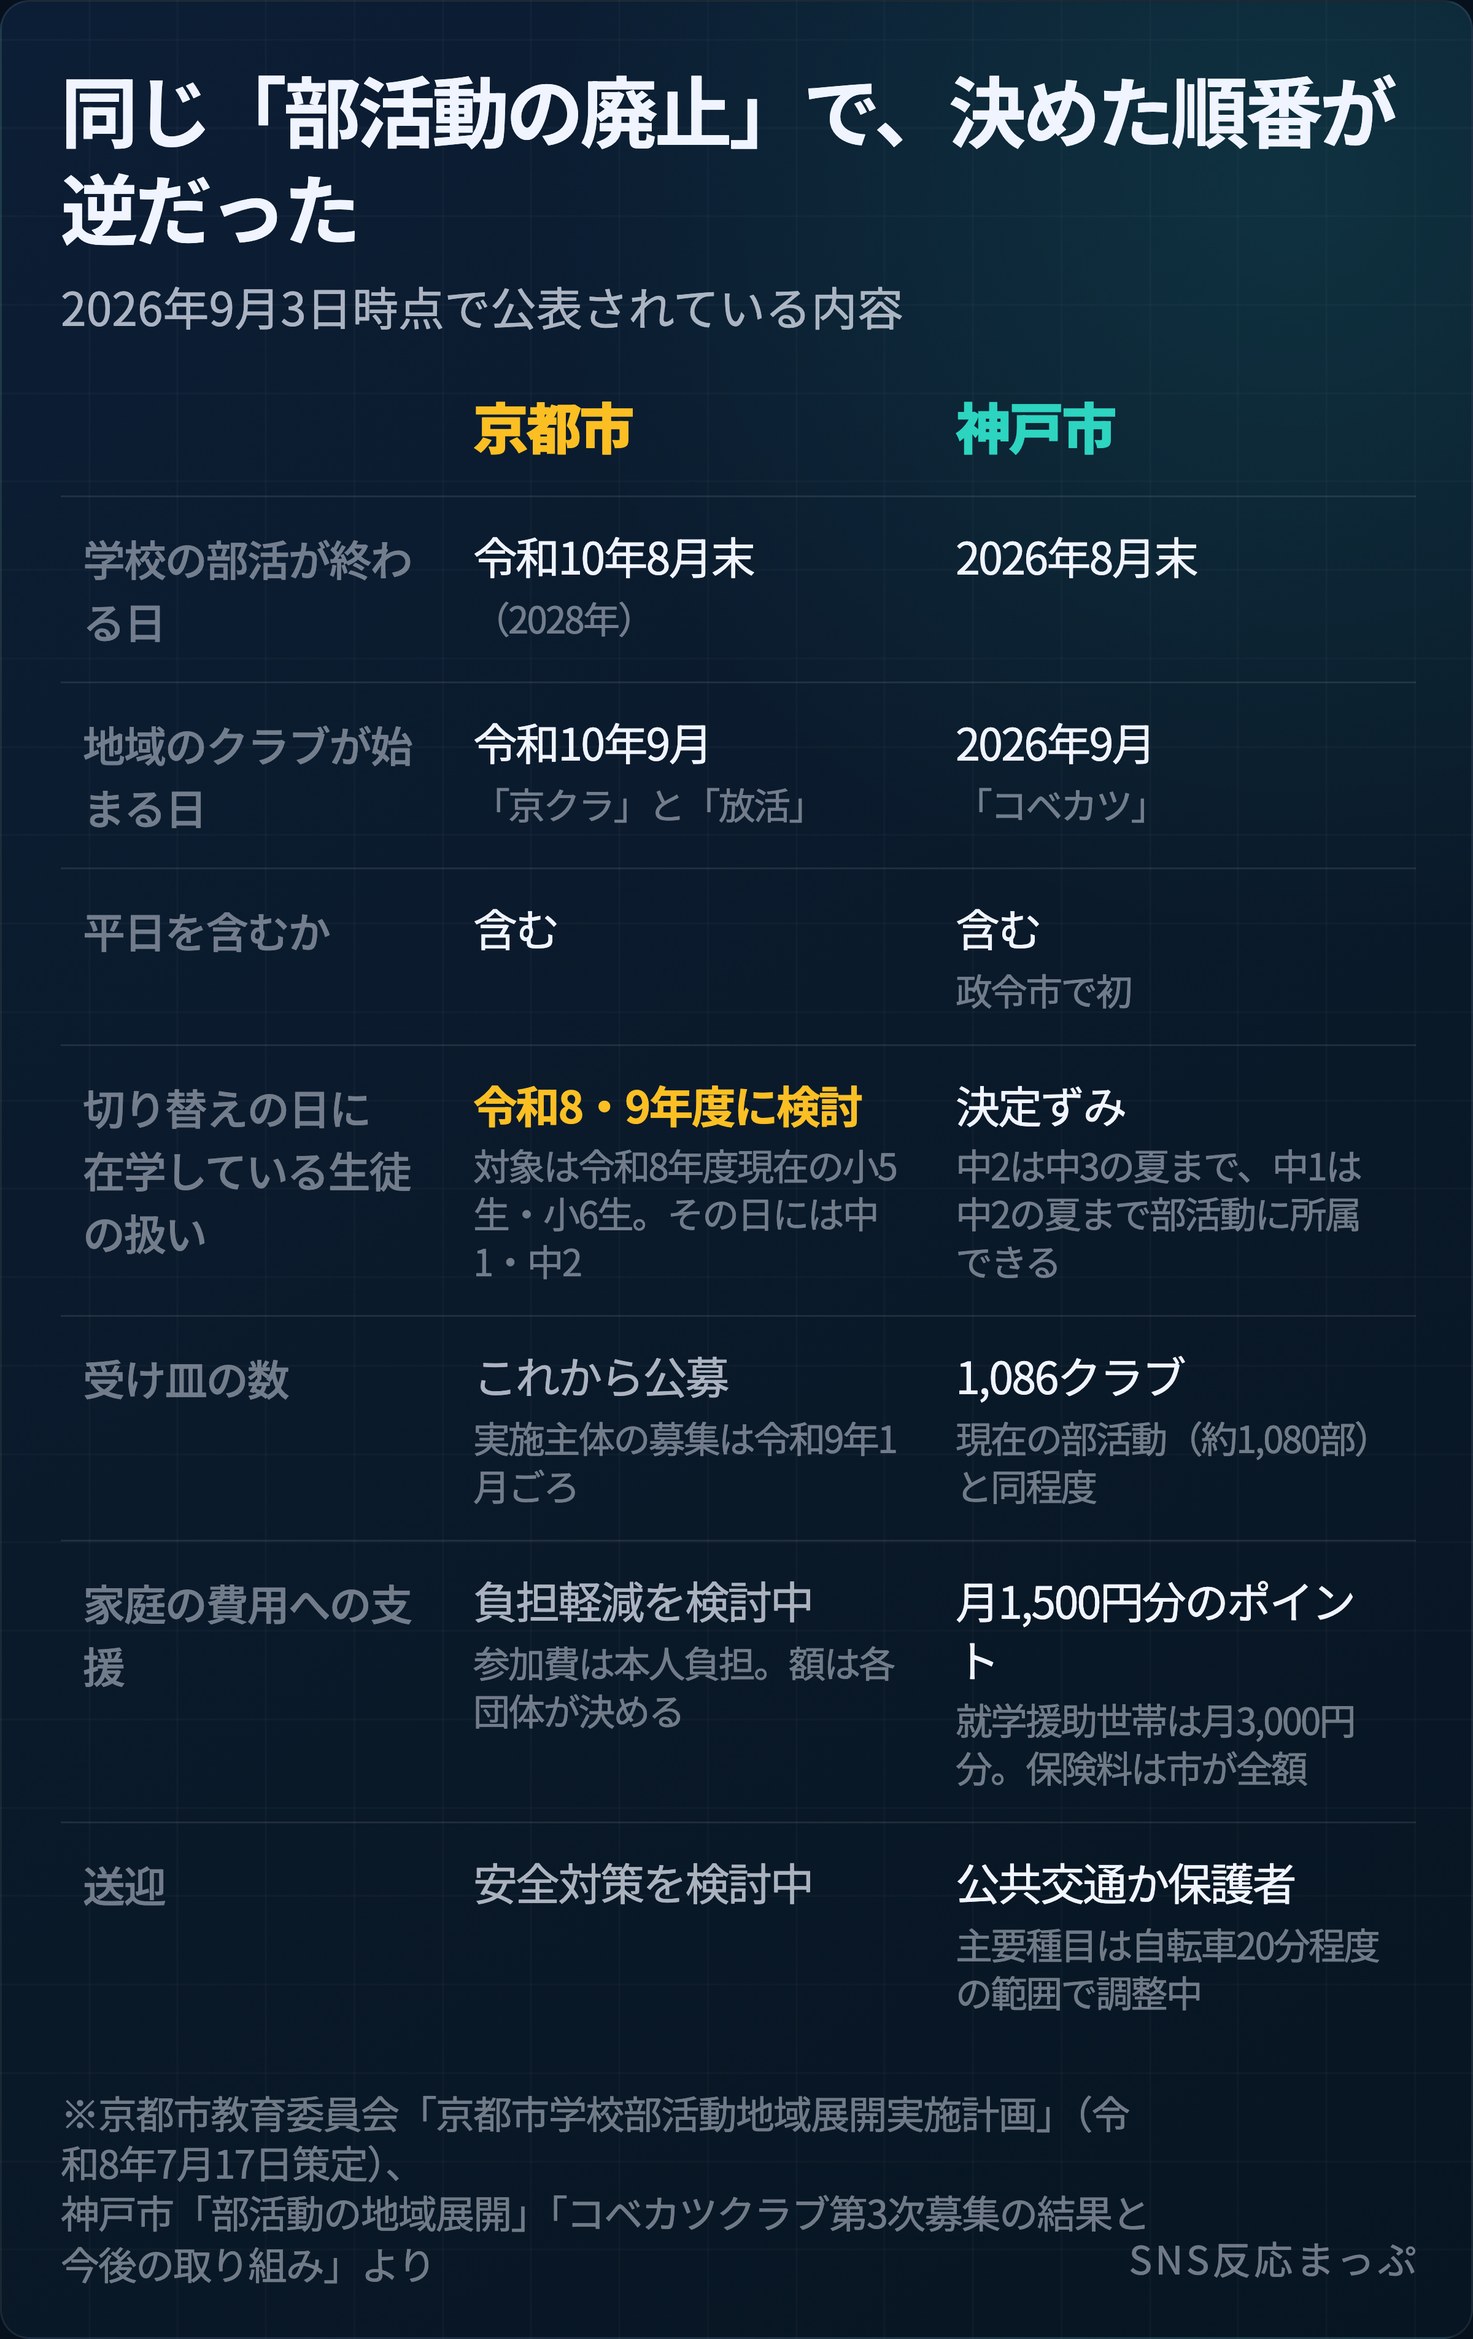
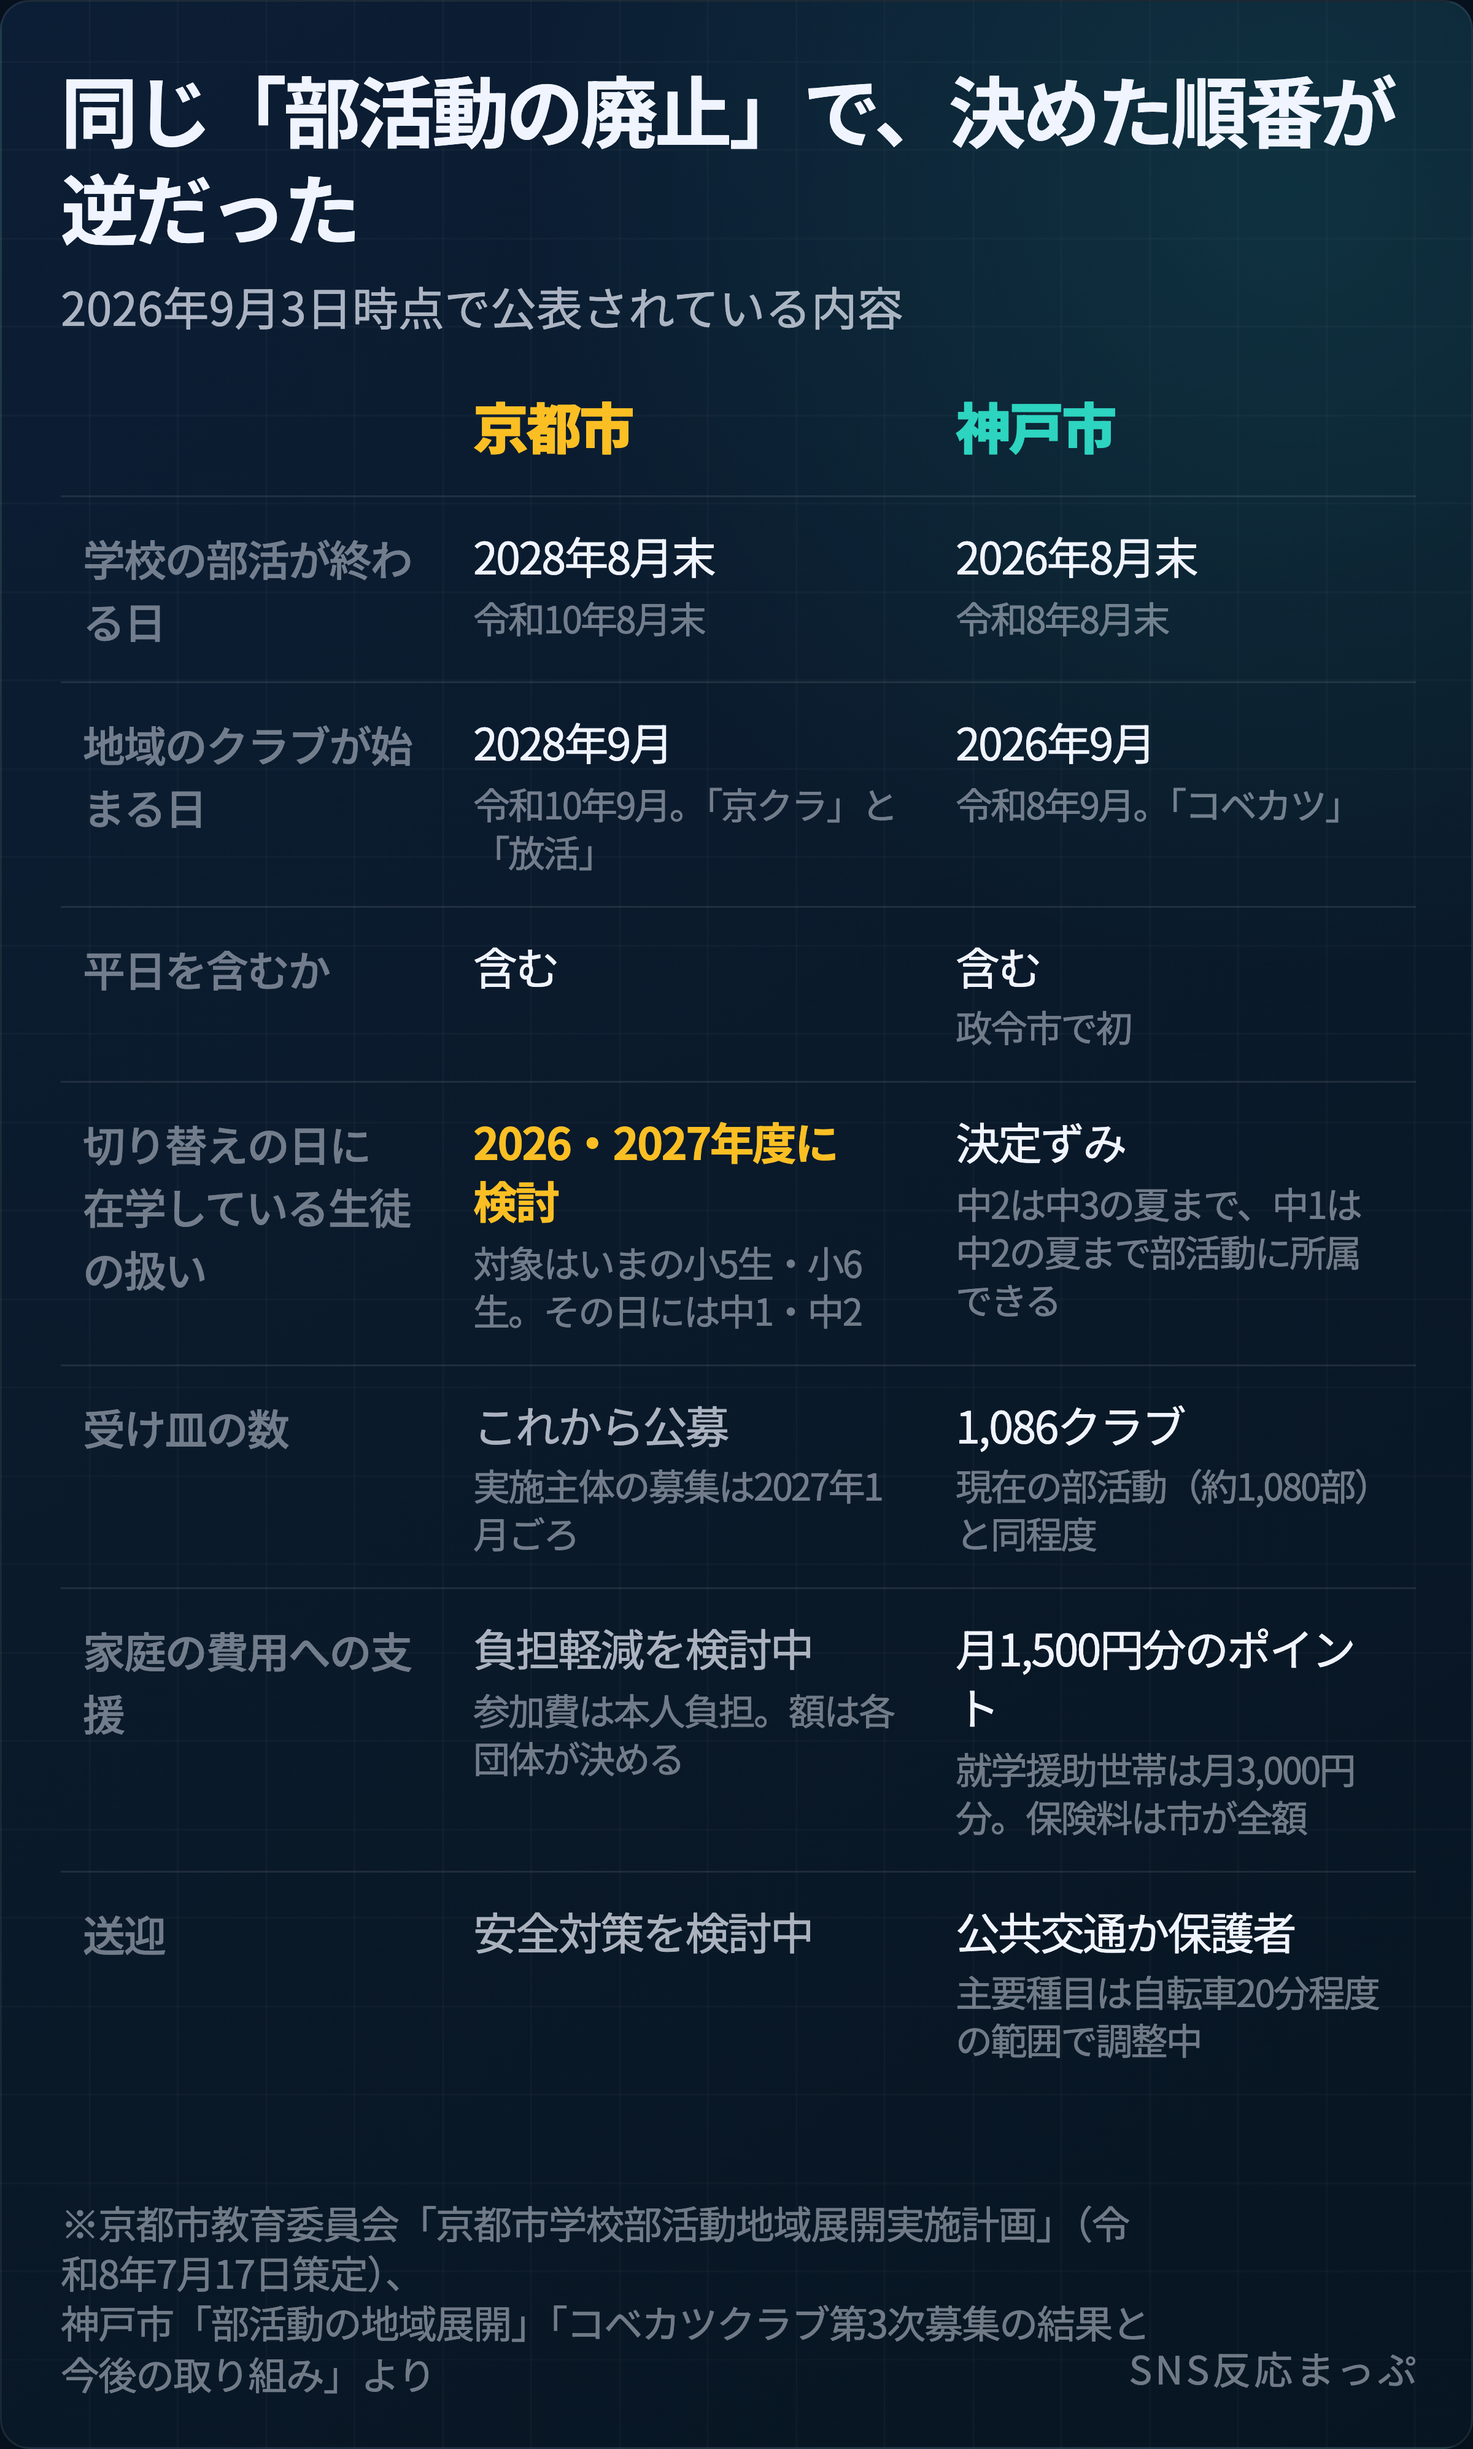
図2の年の表記を西暦主体にそろえた
オーナー指摘。京都市が「令和10年8月末」、神戸市が「2026年8月末」と
別々の表記で並んでいて、2年差が読み取りにくかった。
両市とも西暦を主にし、令和を小さな添え書きへ回した。

令和10年＝2028年、令和8年＝2026年、令和9年1月＝2027年1月、
令和8・9年度＝2026・2027年度。いずれも一次資料と突合済み。
本文は京都市の実施計画の引用を含むため令和表記のまま。

高さを1270→1330pxに広げ、375px幅のプレビューで折り返しを確認した。

diff --git a/content/note/drafts/figures/bukatsu4_fig2-kyoto-kobe.html b/content/note/drafts/figures/bukatsu4_fig2-kyoto-kobe.html
@@ -8,7 +8,7 @@
   <link href="https://fonts.googleapis.com/css2?family=Noto+Sans+JP:wght@400;500;700;900&display=swap" rel="stylesheet">
   <style>
     :root{--page:#07111E;--card-1:#0C1E35;--card-2:#0A1928;--card-3:#071522;--ink:#F0F4FF;--ink-70:rgba(240,244,255,.70);--ink-45:rgba(240,244,255,.45);--teal:#2DD4BF;--amber:#FBBF24}
-    *{box-sizing:border-box}html,body,.canvas{width:800px;height:1270px;margin:0;overflow:hidden}
+    *{box-sizing:border-box}html,body,.canvas{width:800px;height:1330px;margin:0;overflow:hidden}
     body{font-family:'Noto Sans JP',sans-serif;font-variant-numeric:tabular-nums;background:var(--page);color:var(--ink)}
     .canvas{position:relative;padding:32px 32px 0;border:1px solid rgba(255,255,255,.08);border-radius:16px;background:radial-gradient(circle at 88% 8%,rgba(45,212,191,.12),transparent 30%),repeating-linear-gradient(0deg,transparent 0 47px,rgba(255,255,255,.025) 47px 48px),repeating-linear-gradient(90deg,transparent 0 47px,rgba(255,255,255,.025) 47px 48px),linear-gradient(145deg,var(--card-1) 0%,var(--card-2) 60%,var(--card-3) 100%)}
     h1{margin:0;font-size:42px;line-height:1.25;font-weight:700;letter-spacing:-.04em}
@@ -33,11 +33,11 @@
     <table>
       <thead><tr><th class="item"></th><th class="k">京都市</th><th class="n">神戸市</th></tr></thead>
       <tbody>
-        <tr><th class="item">学校の部活が終わる日</th><td>令和10年8月末<em>（2028年）</em></td><td>2026年8月末</td></tr>
-        <tr><th class="item">地域のクラブが始まる日</th><td>令和10年9月<em>「京クラ」と「放活」</em></td><td>2026年9月<em>「コベカツ」</em></td></tr>
+        <tr><th class="item">学校の部活が終わる日</th><td>2028年8月末<em>令和10年8月末</em></td><td>2026年8月末<em>令和8年8月末</em></td></tr>
+        <tr><th class="item">地域のクラブが始まる日</th><td>2028年9月<em>令和10年9月。「京クラ」と「放活」</em></td><td>2026年9月<em>令和8年9月。「コベカツ」</em></td></tr>
         <tr><th class="item">平日を含むか</th><td>含む</td><td>含む<em>政令市で初</em></td></tr>
-        <tr><th class="item">切り替えの日に<br>在学している生徒の扱い</th><td class="soft"><span class="mark">令和8・9年度に検討</span><em>対象は令和8年度現在の小5生・小6生。その日には中1・中2</em></td><td>決定ずみ<em>中2は中3の夏まで、中1は中2の夏まで部活動に所属できる</em></td></tr>
-        <tr><th class="item">受け皿の数</th><td class="soft">これから公募<em>実施主体の募集は令和9年1月ごろ</em></td><td>1,086クラブ<em>現在の部活動（約1,080部）と同程度</em></td></tr>
+        <tr><th class="item">切り替えの日に<br>在学している生徒の扱い</th><td class="soft"><span class="mark">2026・2027年度に<br>検討</span><em>対象はいまの小5生・小6生。その日には中1・中2</em></td><td>決定ずみ<em>中2は中3の夏まで、中1は中2の夏まで部活動に所属できる</em></td></tr>
+        <tr><th class="item">受け皿の数</th><td class="soft">これから公募<em>実施主体の募集は2027年1月ごろ</em></td><td>1,086クラブ<em>現在の部活動（約1,080部）と同程度</em></td></tr>
         <tr><th class="item">家庭の費用への支援</th><td class="soft">負担軽減を検討中<em>参加費は本人負担。額は各団体が決める</em></td><td>月1,500円分のポイント<em>就学援助世帯は月3,000円分。保険料は市が全額</em></td></tr>
         <tr><th class="item">送迎</th><td class="soft">安全対策を検討中</td><td>公共交通か保護者<em>主要種目は自転車20分程度の範囲で調整中</em></td></tr>
       </tbody>

diff --git a/quality/reviews/2026-09-03-note-bukatsu-4.md b/quality/reviews/2026-09-03-note-bukatsu-4.md
@@ -10,6 +10,7 @@
 
 - 2026-09-03: 貼り付け用原稿（`content/note/drafts/bukatsu-chiiki-note4-FINAL.md`）、見出し画像1点、図3点を作成。
 - 2026-09-03: note下書き（ID `n2291c21ae987`、タイトル「部活動の地域移行、京都市と神戸市で決め方が逆だった」）へ本文を貼り付け、下書き保存を確認。エディタ上で大見出し7本・太字2か所・引用ブロック2か所・X投稿の埋め込み5件・目次・UTM付きリンク4本を機械照合済み（本文7,100文字）。
+- 2026-09-04: オーナーの指摘により図2の年の表記を統一した（京都市が「令和」、神戸市が「西暦」で並んでいて比較しにくかった）。両市とも西暦を主にし、令和を小さな添え書きに回した。西暦と和暦の対応（令和10年＝2028年、令和8年＝2026年、令和9年1月＝2027年1月、令和8・9年度＝2026・2027年度）は研究メモの一次資料と突合済み。本文は一次資料の引用を含むため令和表記のまま。
 - 未実施: 見出し画像と図3点のアップロード、タグ5個、マガジン追加、投稿。画像はAIがローカルのPNGをnoteへ直接アップロードできないため、オーナーの操作が必要。
 
 ## 確認結果
